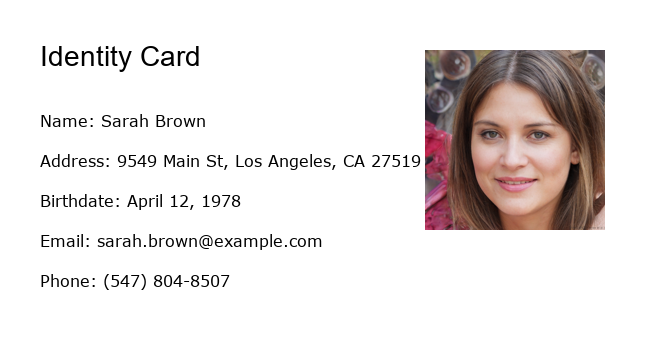
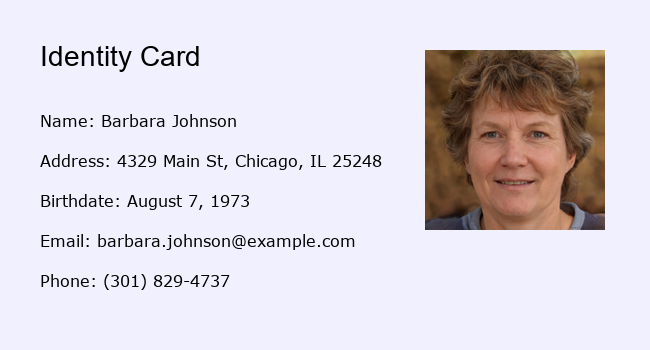
change back color

diff --git a/src/pillow/generateCard.py b/src/pillow/generateCard.py
@@ -4,7 +4,7 @@ from entities.id_data import Id
 # generate id card with pil library
 def generateIdCard(id: Id):
     
-    card = Image.new("RGB", (650, 350), "white")
+    card = Image.new("RGB", (650, 350), (240,240,255))
     draw = ImageDraw.Draw(card)
     
     # font part
